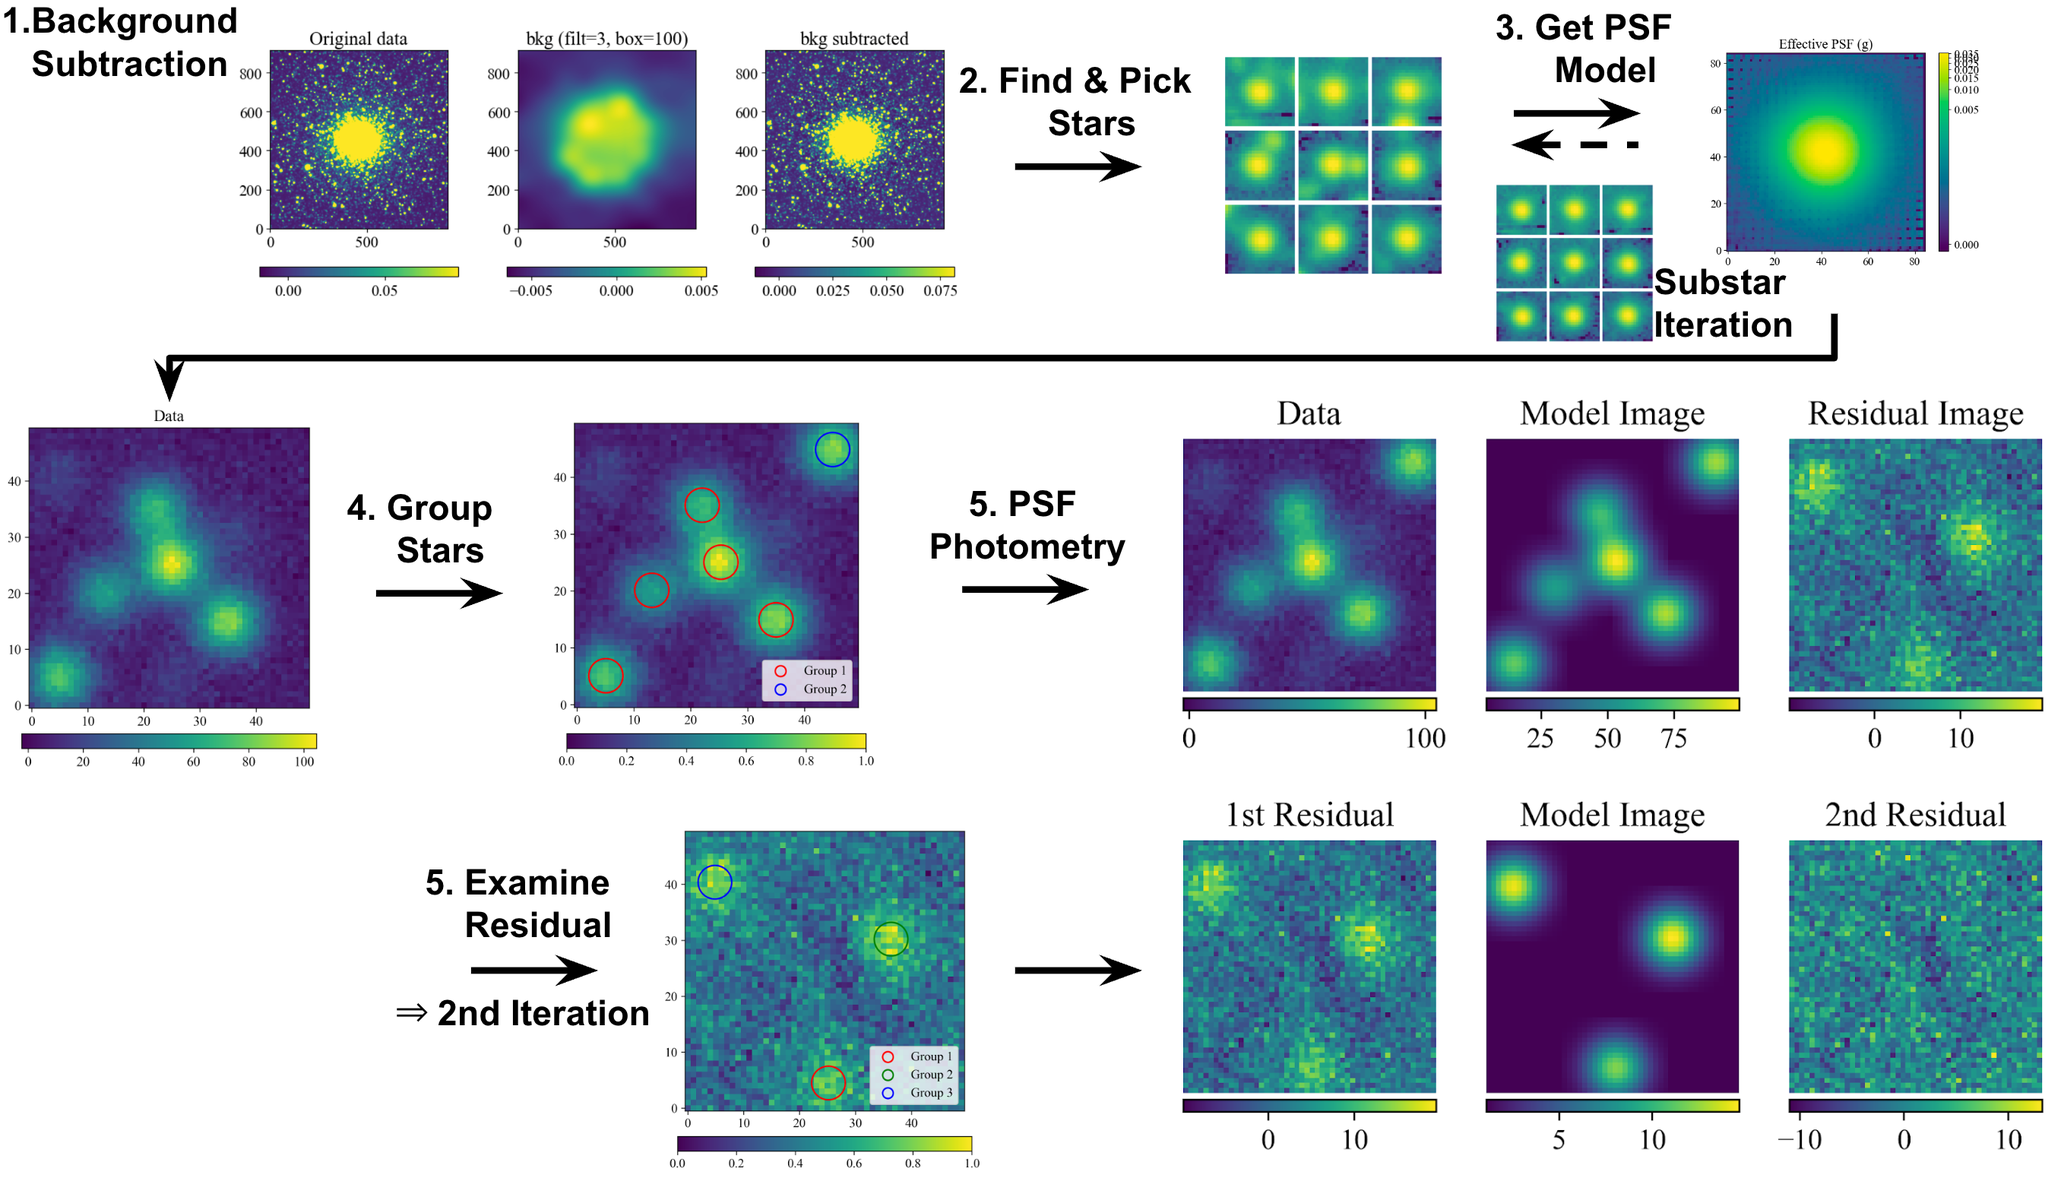
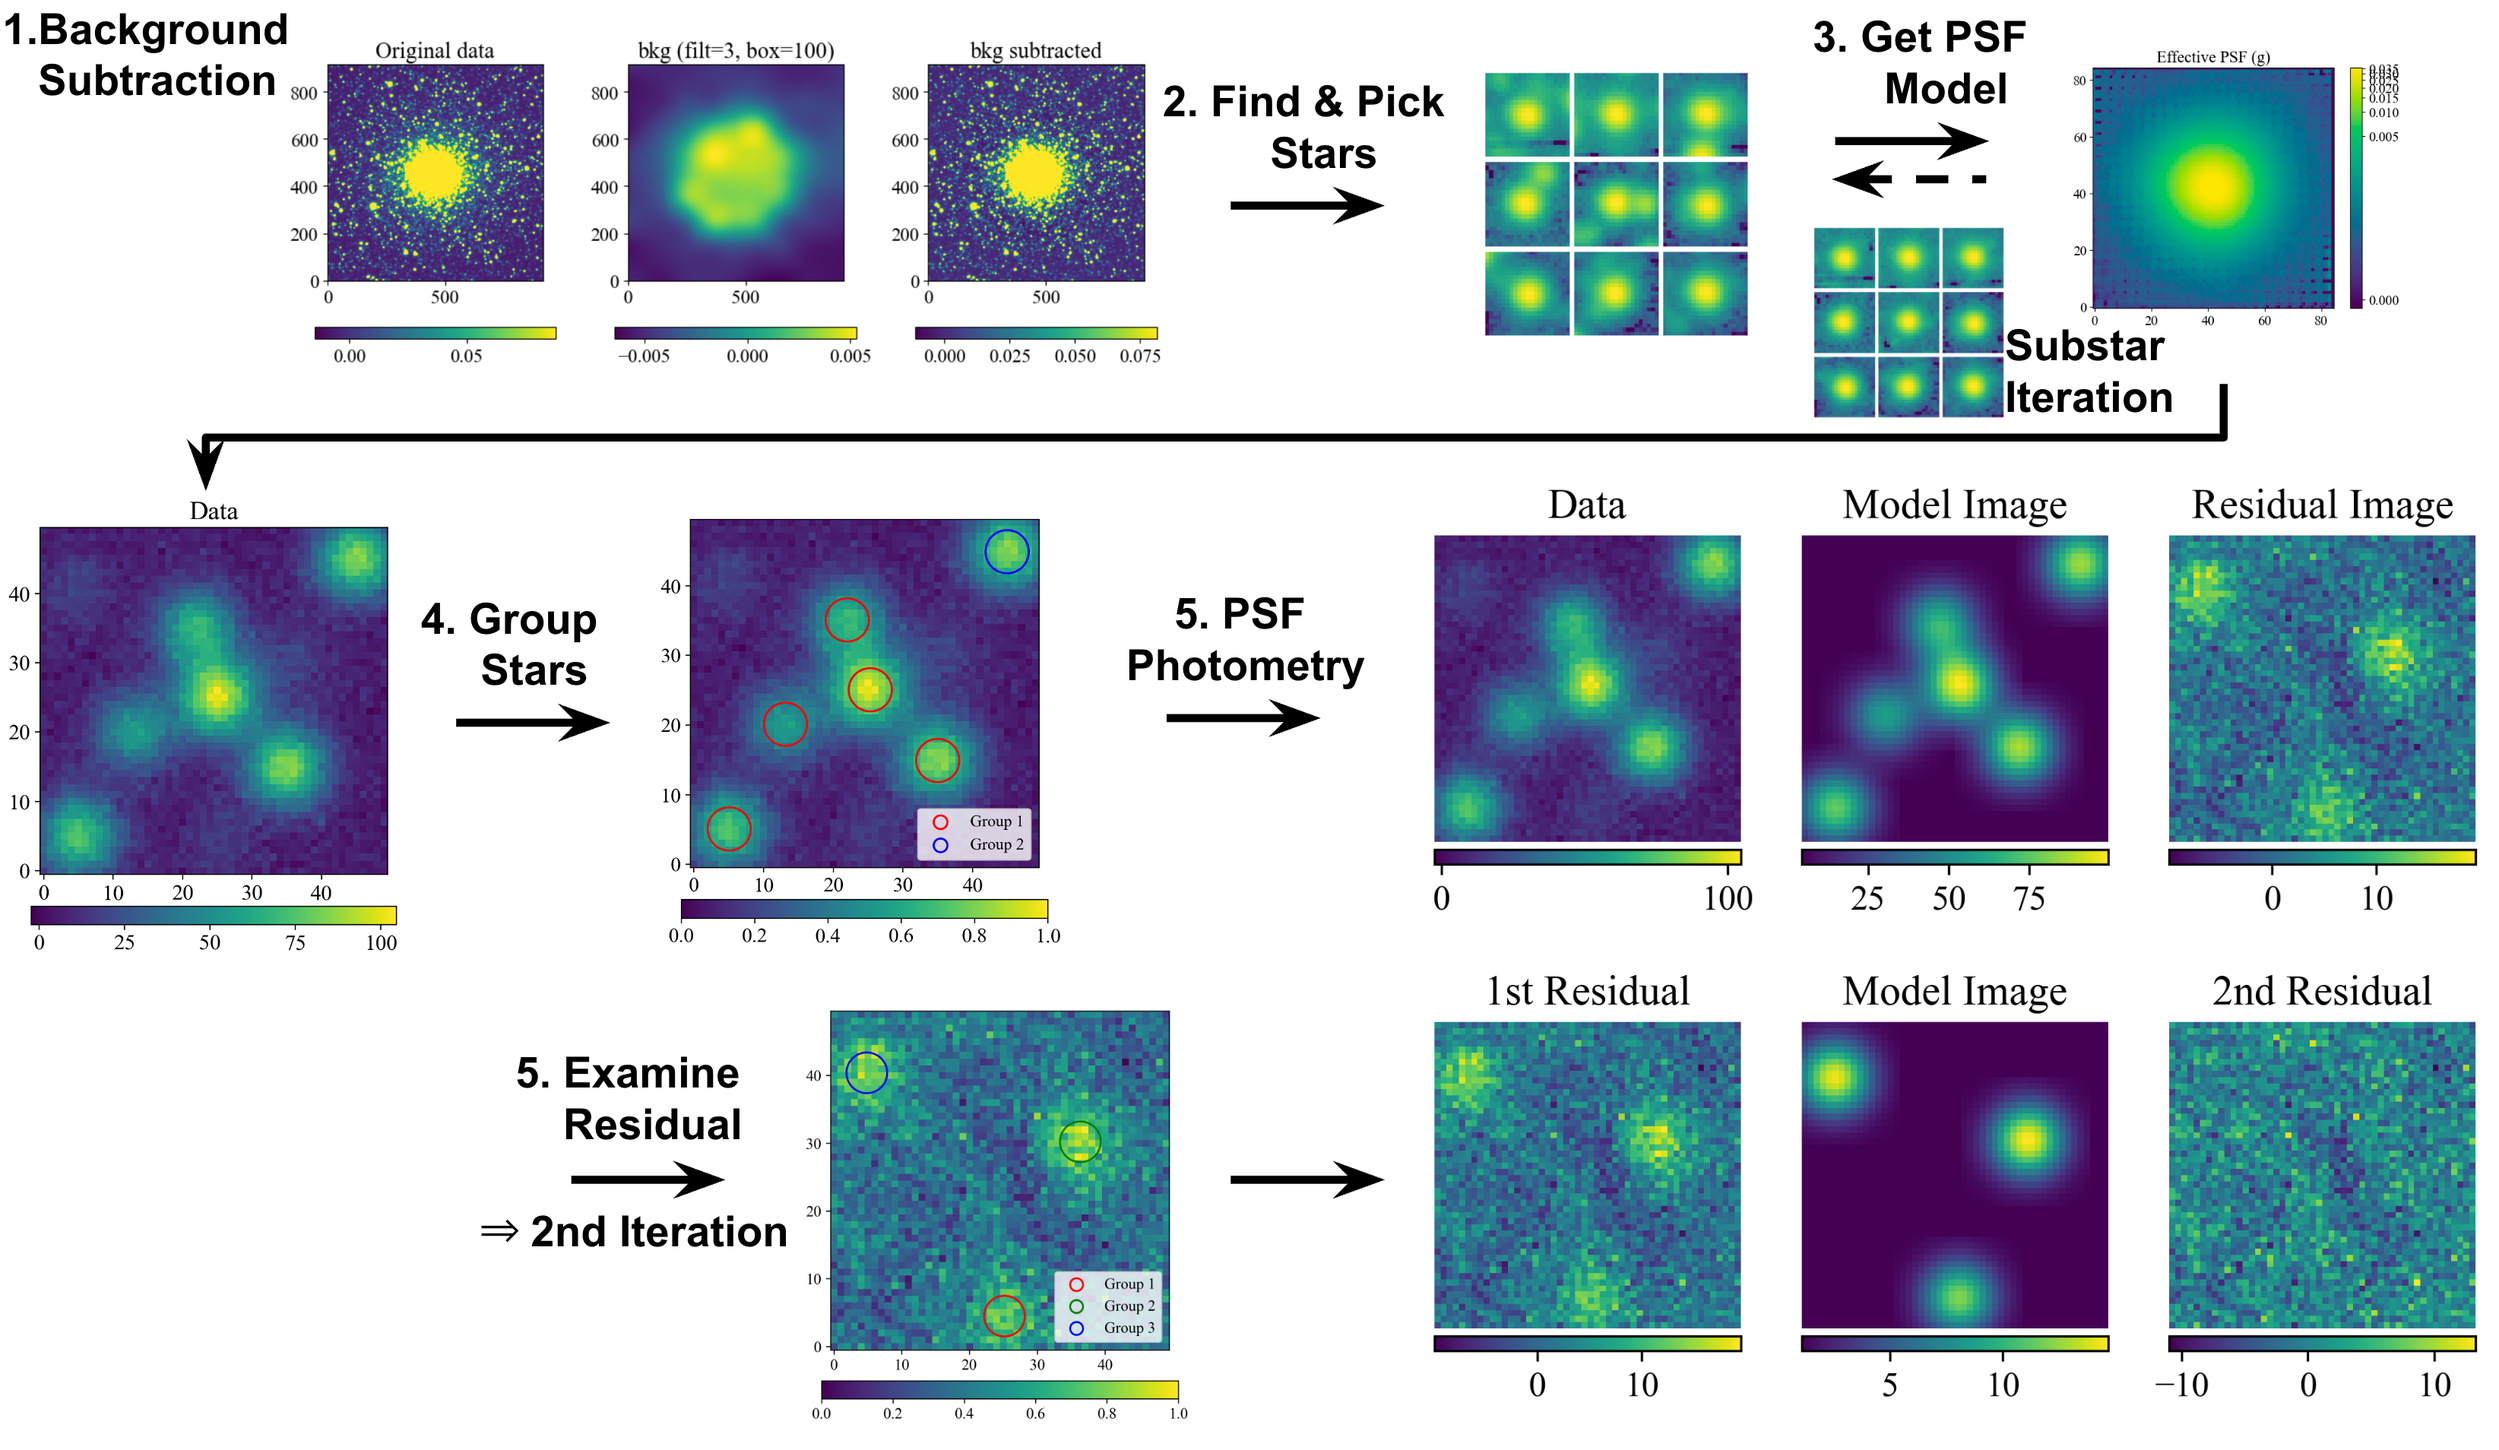
update overview image

diff --git a/_internal/proj2-gendata.py b/_internal/proj2-gendata.py
@@ -120,7 +120,7 @@ from time import time, ctime
 import warnings
 from astropy.table import Table
 from astropy.modeling.fitting import LevMarLSQFitter, LMLSQFitter
-from astropy.stats import sigma_clipped_stats, gaussian_fwhm_to_sigma
+from astropy.stats import sigma_clipped_stats, gaussian_fwhm_to_sigma, SigmaClip
 from astropy.table import Table, vstack, hstack
 from astropy.nddata import NDData, CCDData, Cutout2D
 from astropy.utils.exceptions import AstropyWarning
@@ -136,7 +136,8 @@ from photutils.psf.utils import _extract_psf_fitting_names
 from photutils.psf.utils import get_grouped_psf_model, subtract_psf
 from photutils.detection import IRAFStarFinder
 from photutils.background import MMMBackground, MADStdBackgroundRMS
-from photutils.segmentation import make_source_mask
+from photutils.segmentation import detect_threshold, detect_sources
+from photutils.utils import circular_footprint
 from scipy.optimize import curve_fit
 from mpl_toolkits.axes_grid1 import make_axes_locatable
 from matplotlib import patches
@@ -203,7 +204,11 @@ def read_sci_data(fpath, show=True, newbyteorder=False, bkgsubtract=False):
     return ccd, ccd_raw
 
 def background_substraction(img, box=100, filt=3, show=True):
-    mask = make_source_mask(img, nsigma=2, npixels=1, dilate_size=3)
+    sigma_clip = SigmaClip(sigma=3.0, maxiters=10)
+    threshold = detect_threshold(img, nsigma=3.0, sigma_clip=sigma_clip)
+    segment_img = detect_sources(img, threshold, npixels=10)
+    footprint = circular_footprint(radius=1)
+    mask = segment_img.make_source_mask(footprint=footprint)
     bkg_sep = sep.Background(img.byteswap().newbyteorder(), 
                              mask=mask, bw=box, bh=box, fw=filt, fh=filt)
     bkgsub_sep = img - bkg_sep.back()
@@ -247,7 +252,7 @@ thres = 3*std
 
 find_mask = np.zeros_like(data, dtype=bool)
 # find_mask[250:650, 250:650] = True
-ll, hh = 0, 200
+ll, hh = 250, 650
 find_mask[ll:hh, ll:hh] = True
 peaks_tbl = find_peaks(data, threshold=thres, mask=find_mask)
 peaks_tbl['peak_value'].info.format = '%.8g'
